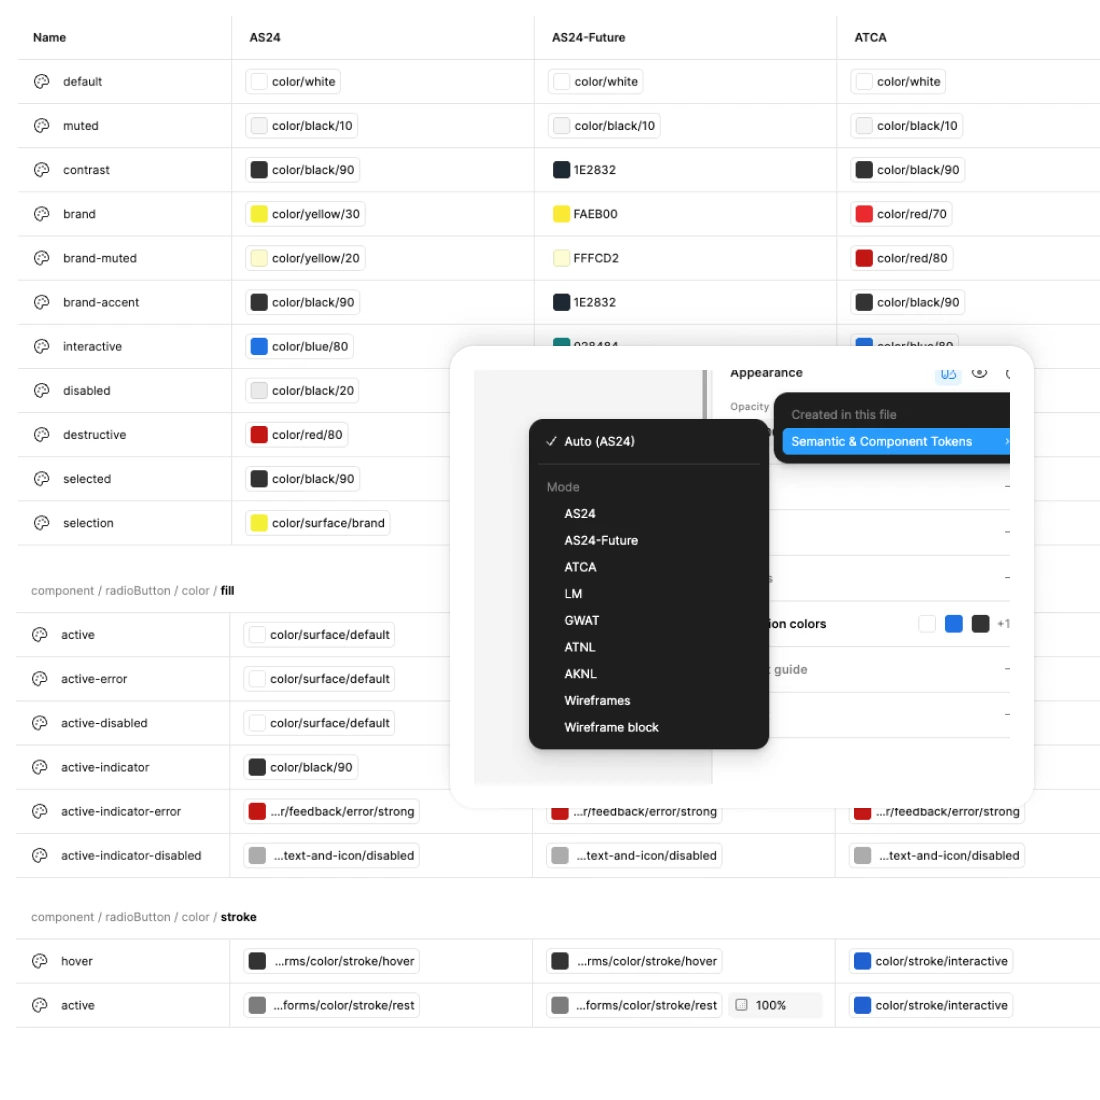
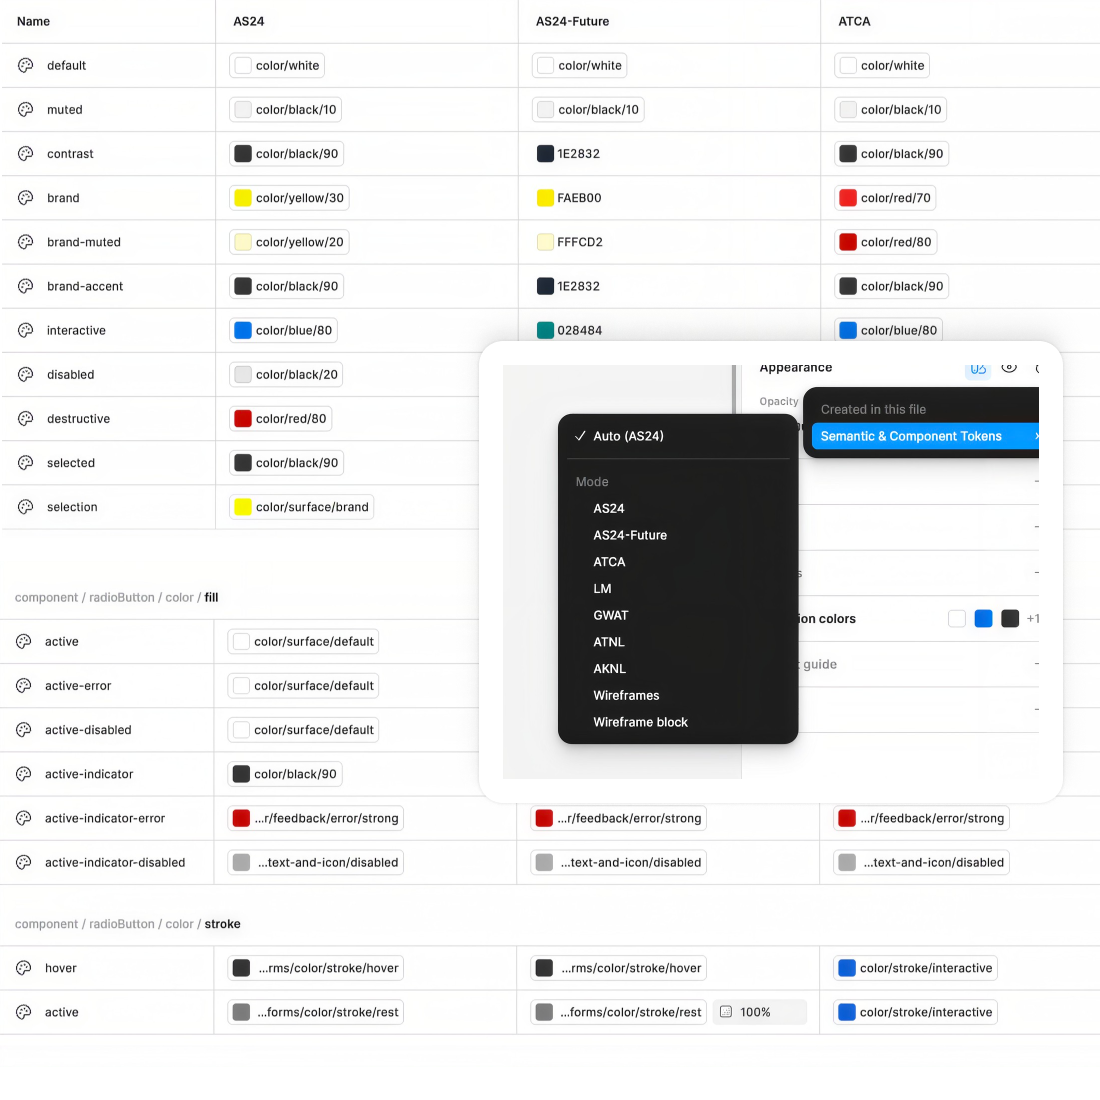
Updated variables image with a 1x copy
Claude-Session: https://claude.ai/code/session_016vAdai3CtSbqx1Acff8fYM

diff --git a/draft/work/showcar/index.html b/draft/work/showcar/index.html
@@ -131,7 +131,7 @@
 </ol></div></figure>
 <div class="figs two">
 <figure><div class="shot natural" style="--ar: 1 / 1">
-  <img src="../../../assets/img/showcar/variables.webp" width="1100" height="1100" loading="lazy" alt="Semantic and component tokens in Figma, with a column per brand mode (AS24, AS24-Future, ATCA). Each brand maps the same token to its own colour, for example surface brand is yellow for AS24 and red for ATCA. A menu shows the mode switcher: AS24, AS24-Future, ATCA, LM, GWAT, ATNL, AKNL and wireframe modes.">
+  <img src="../../../assets/img/showcar/variables.webp?v=2" srcset="../../../assets/img/showcar/variables-550.webp?v=2 550w, ../../../assets/img/showcar/variables.webp?v=2 1100w" sizes="(max-width: 52rem) 100vw, 548px" width="1100" height="1100" loading="lazy" alt="Semantic and component tokens in Figma, with a column per brand mode (AS24, AS24-Future, ATCA). Each brand maps the same token to its own colour, for example surface brand is yellow for AS24 and red for ATCA. A menu shows the mode switcher: AS24, AS24-Future, ATCA, LM, GWAT, ATNL, AKNL and wireframe modes.">
 </div><figcaption class="cap">Brand themes as variable modes in Figma.</figcaption></figure>
 <figure><div class="shot natural" style="--ar: 1 / 1">
   <img src="../../../assets/img/showcar/docs.webp" width="1100" height="1100" loading="lazy" alt="Showcar button documentation: a Do's panel (use primary and secondary buttons to show importance; use transparent buttons for less important actions), a Don'ts panel (avoid multiple primary CTAs in one section, don't use floating buttons inline, avoid super-wide CTAs), and guidance on when to use hug or fill width, each with live examples.">

diff --git a/README.md b/README.md
@@ -38,7 +38,7 @@ Every image frame on the site shows a hatched placeholder with a brief and a fil
 | `assets/img/showcar/cover.webp` (+ `cover-620.webp` 1x) | Added: homepage card, design system spread |
 | `assets/img/showcar/hero.webp` (+ `hero-1120.webp` 1x) | Added: foundations and components, two brands |
 | `assets/img/showcar/modals.webp` (+ `modals-410.webp` 1x) | Added: the 6 modal variants found in production, 820 x 480 |
-| `assets/img/showcar/variables.webp` | Added: tokens across brand modes, with the mode switcher |
+| `assets/img/showcar/variables.webp` (+ `-550` 1x) | Added: tokens across brand modes, with the mode switcher |
 | `assets/img/showcar/components/<brand>.webp` (+ `-550` 1x) | Added: component sheet per brand (autoscout24, autotrader-ca, autotrader-nl, gebrauchtwagen), 1100 x 940 |
 | `assets/img/showcar/homepages/<brand>.webp` (+ `-550` 1x) | Added: homepage per brand, same four brands, 1100 x 940 |
 | `assets/img/showcar/docs.webp` | Added: button documentation (do's, don'ts, hug vs fill) |
